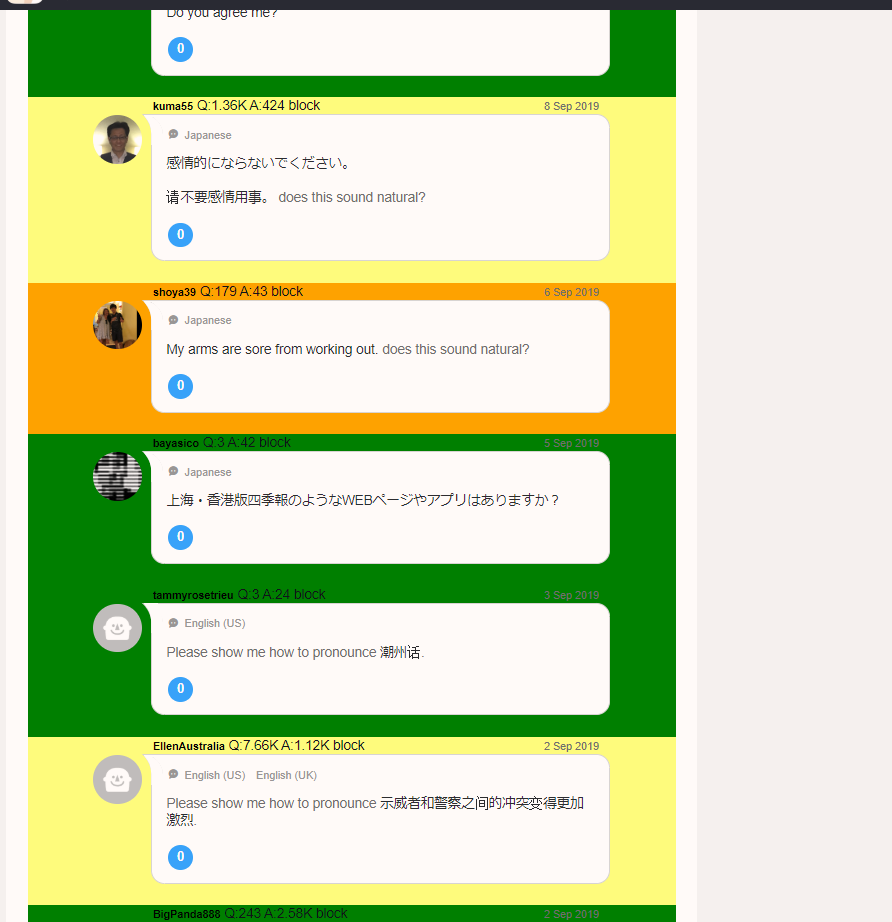
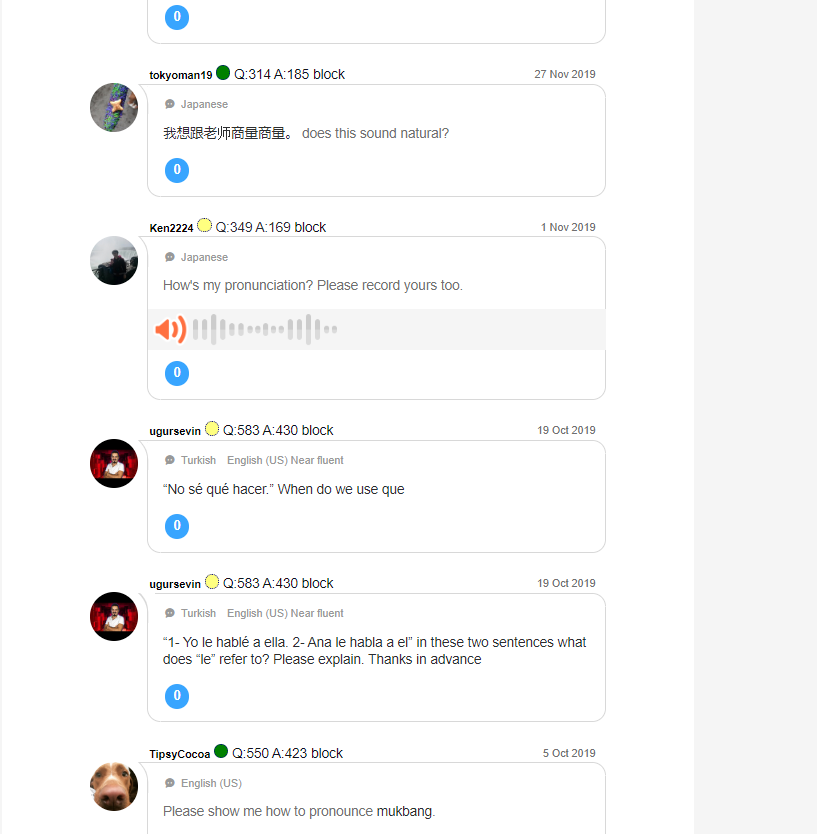
更改样式,更少的intrusive

diff --git a/js/script.js b/js/script.js
@@ -39,17 +39,21 @@ function handler() {
             var b_block = $(this).get(0)
             var usr = $(this).find(".username").text()
 
+            if(b_block.painted==true){
+                return
+            }
             //如果该用户已经加载过了就不用了
             if (typeof result_buffer[usr] === "undefined") {
-
+                //没有加载过就继续
             }
             else {
-                if (!b_block.painted) {
 
-                    console.log("buffered:" + usr)
+                //如果是新的方块则重新画一遍
+                if (b_block.painted != true) {
+                    console.log("buffered:" + usr + " b_block.painted:" + b_block.painted)
                     do_painting(b_block, result_buffer[usr].txt)
-                }
 
+                }
                 return
             }
 
@@ -80,8 +84,6 @@ function handler() {
                     //判断不是自己的主页
                     while (p_url == matches[0])
 
-
-
                     var req = new XMLHttpRequest();
                     req.addEventListener("load", function (evt1) {
                         var p_url = p_url
@@ -89,8 +91,12 @@ function handler() {
 
                         var txt = evt1.srcElement.response
                         result_buffer[usr] = { txt: txt, block: b_block }
-
+                        if(b_block.painted==true){
+                            return
+                        }
                         do_painting(b_block, txt)
+                        console.log("add buffer:" + usr + "b_block.painted:" + b_block.painted)
+
                     })
 
                     req.open("GET", p_url);
@@ -116,75 +122,81 @@ chrome.storage.sync.get(["blocked_users"], function (rslt) {
 
 function add_block(user_name) {
     blocked_users.push(user_name)
-    blocked_users=Array.from(new Set(blocked_users))
+    blocked_users = Array.from(new Set(blocked_users))
     chrome.storage.sync.set({ "blocked_users": blocked_users })
 }
 
-var blocked_blocks=new Set()
-var filling_blocks_count=0
+var blocked_blocks = new Set()
+var filling_blocks_count = 0
 //对需要框框上色
 function do_painting(ele, txt) {
+    //设置一个painted属性
+    ele.painted = true
     var usr = $(ele).find(".username")
     var wrp = $(ele).find(".username_wrapper")
     //获得反应率以及其他信息
     var matches = txt.match(/level_\d/)
-    var is_auto_blocked=false
+    var is_auto_blocked = false
     try {
         matches.length
     } catch (error) {
-       
+
         console.log("发现萌新" + $(ele).find(".username").text())
-        wrp.append("<b>New~</b>")
+        // wrp.append("<b>New~</b>")
         // $(ele).find(".username")
     }
-
+    var color = "white"
     if (matches != null) {
         //获得用户profile rate
         var rate = matches[0]
+        
         switch (rate) {
             case "level_1":
-                ele.style.backgroundColor = "red"
-                is_auto_blocked=true
+                color = "red"
+                is_auto_blocked = true
                 break;
             case "level_2":
-                ele.style.backgroundColor = "orange"
-                is_auto_blocked=true
+                color = "orange"
+                is_auto_blocked = true
                 break;
             case "level_3":
-                ele.style.backgroundColor = "#ffff80"
+                color = "#ffff80"
                 break;
             case "level_4":
-                ele.style.backgroundColor = "green"
+                color = "green"
                 break;
+            
         }
     }
-    if(is_auto_blocked&&auto_block)
-    add_block(usr.text())
+    
+    wrp.append("<span style=\"display:inline-block;width:16px;height:16px;border: darkblue;border-style: dotted;border-width: 1px;border-radius:8px;background-color:" + color + "\"></span>")
+
+
+    if (is_auto_blocked && auto_block)
+        add_block(usr.text())
 
     //如果是被屏蔽的用户
     if (blocked_users.indexOf(usr.text()) > -1) {
         blocked_blocks.add(ele)
 
-        if($("#blocked_blocks").length==0)
-        $(".country_selector").append("<span id='blocked_blocks'> blocked quesions count:"+blocked_blocks.length+"</span>")
-        else{
-            $("#blocked_blocks").text("blocked quesions count:"+blocked_blocks.size)
+        if ($("#blocked_blocks").length == 0)
+            $(".country_selector").append("<span id='blocked_blocks'> blocked quesions count:" + blocked_blocks.length + "</span>")
+        else {
+            $("#blocked_blocks").text("blocked quesions count:" + blocked_blocks.size)
         }
 
         console.log("已隐藏用户问题:" + usr.text())
         $(ele).remove();
         ele.style.visibility = "hidden"
         //把隐藏的blocks作为填充放在main后以便翻滚加载新提问
-        if(filling_blocks_count<3)
-        {
+        if (filling_blocks_count < 3) {
             filling_blocks_count++
             $(document.body).append($(ele))
         }
-        
+
     }
 
     //获得featured users number to-do :not likely
-
 
     //获得questions number
     var numbers = txt.match(/(?<=font_numbers_large['"]>)[^<]+/g)
@@ -196,7 +208,7 @@ function do_painting(ele, txt) {
     usr.get(0).style.color = "black"
     usr.get(0).style.fontSize = "25"
     wrp.append($("<span>" + " Q:" + q_n + " A:" + a_n + "</span>"))
-    
+
     //添加屏蔽选项
     var a = $("<a> block</a>")
     a.before("&nbsp;")
@@ -205,13 +217,12 @@ function do_painting(ele, txt) {
         add_block(usr.text())
         do_painting(ele, txt)
     })
+
     wrp.append(a)
 
-    //设置一个painted属性
-    ele.painted = true
     // usr.text(usr.text()+" Q:"+q_n+" A:"+a_n)
 
-    
+
 }
 
 
